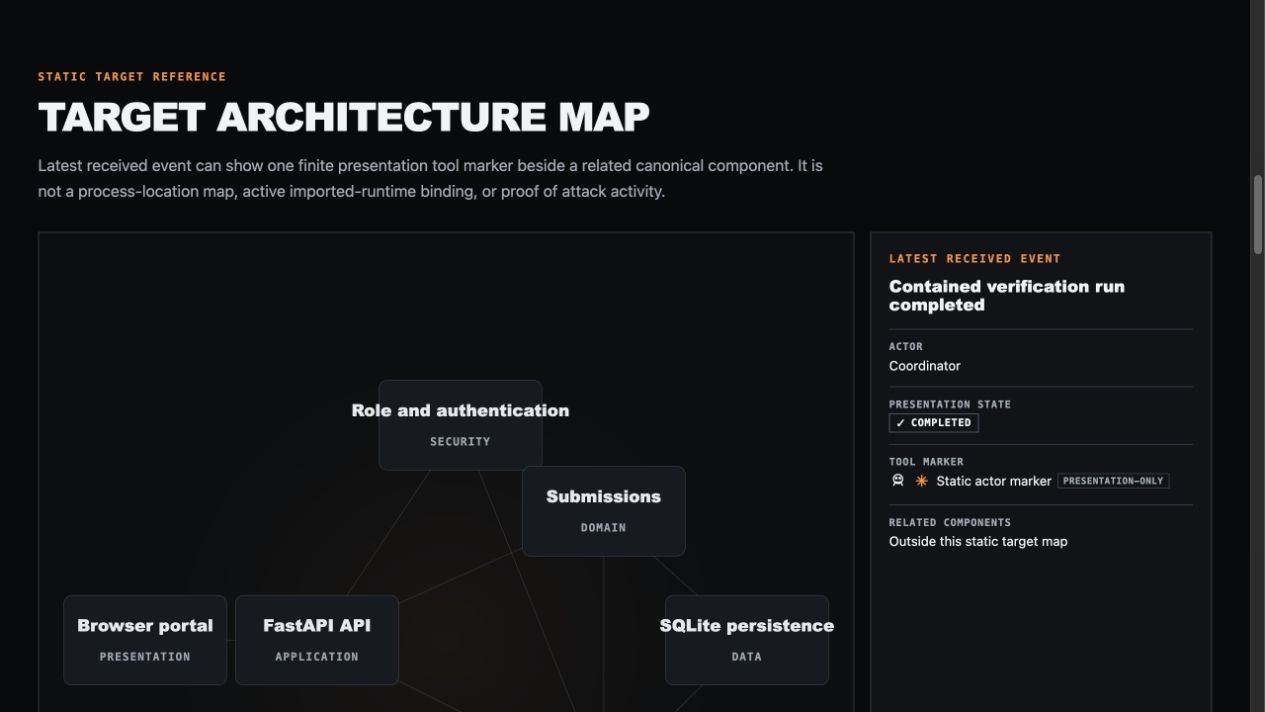
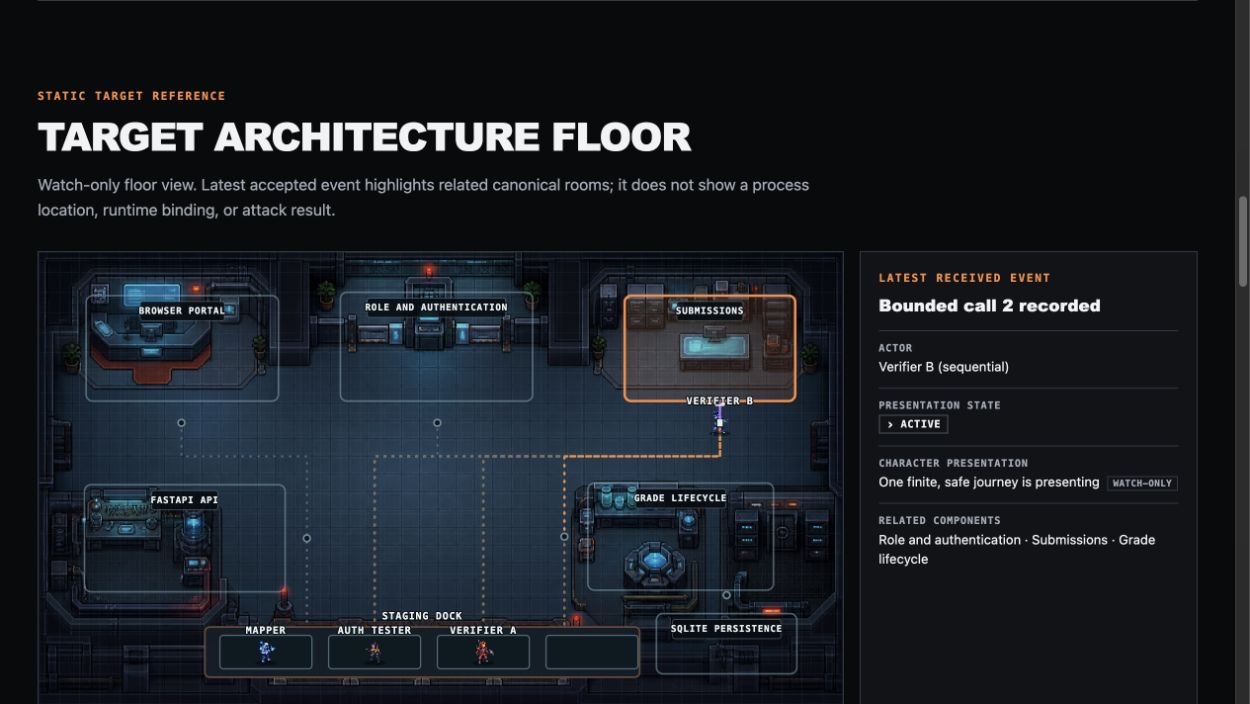
chore(frontend): finish portfolio acceptance

diff --git a/frontend/src/App.tsx b/frontend/src/App.tsx
@@ -364,7 +364,6 @@ export default function App({ preview, initialEvents, transport = liveTransport 
     ? derived.report.metadata.report_url
     : null
   const verifierRunId = derived.terminal?.metadata.verifier_run_id
-  const latestAnnouncement = consoleState.events.at(-1)?.headline ?? 'Console ready'
   const preflight = latest(consoleState.events, 'preflight.completed')
   const runActive = previewReplaying || derived.active || mapActive
 
@@ -484,7 +483,6 @@ export default function App({ preview, initialEvents, transport = liveTransport 
           </section>
         )}
       </main>
-      <p className="sr-only" aria-live="polite" aria-atomic="true">{latestAnnouncement}</p>
       <footer><span>Presentation events are replayable.</span><strong>The append-only SQLite ledger remains the evidence authority.</strong></footer>
     </div>
   )

diff --git a/frontend/src/App.test.tsx b/frontend/src/App.test.tsx
@@ -261,7 +261,7 @@ describe('live operations console', () => {
     expect(within(modes).getByRole('button', { name: 'Simple' })).toHaveAttribute('aria-pressed', 'true')
     await user.tab()
     expect(document.activeElement).toHaveAttribute('href', '#main-content')
-    expect(document.querySelector('[aria-live="polite"]')).toBeInTheDocument()
+    expect(document.querySelectorAll('[aria-live="polite"]')).toHaveLength(1)
     expect(screen.getByRole('button', { name: /Inspect event 0/ })).toBeInTheDocument()
   })
 

diff --git a/AGENTS.md b/AGENTS.md
@@ -129,11 +129,13 @@ Added a separate host-local runtime-console mode for exactly the active Sprint 1
 
 ### Sprint 22
 
-Refreshed the public portfolio presentation without changing product or security behavior. The README now shows current provider-free operations-console replay, seven-stage evidence-flow, event-related architecture-map, and locally served synthetic school-portal captures; it labels replay fixtures, historical pre-migration evidence, presentation-only markers, and the no-provider/no-ledger screenshot boundary explicitly. Browser acceptance used only the committed replay fixture and a temporary seeded school-portal database on loopback; both local services were stopped and the temporary database removed afterwards. The four portfolio images are fixed 1265×712 local JPEGs with no external assets. Offline verification passes 263 Python tests with one existing dependency warning, 39 frontend tests, TypeScript checking, production build, Compose configuration, diff validation, tracked-artifact review, and a redacted credential-pattern audit; the authoritative ledger hash and row counts remain unchanged. No Docker, provider-backed workflow, managed-runtime action, target/registry mutation, or ledger write occurred.
+Refreshed the public portfolio presentation without changing product or security behavior. The README now shows current provider-free operations-console replay, seven-stage evidence-flow, event-related architecture-map, and locally served synthetic school-portal captures; it labels replay fixtures, historical pre-migration evidence, presentation-only markers, and the no-provider/no-ledger screenshot boundary explicitly. Browser acceptance used only the committed replay fixture and a temporary seeded school-portal database on loopback; both local services were stopped and the temporary database removed afterwards. The five portfolio images are local 16:9 JPEGs with no external assets. Offline verification passes 263 Python tests with one existing dependency warning, 39 frontend tests, TypeScript checking, production build, Compose configuration, diff validation, tracked-artifact review, and a redacted credential-pattern audit; the authoritative ledger hash and row counts remain unchanged. No Docker, provider-backed workflow, managed-runtime action, target/registry mutation, or ledger write occurred.
 
 ### Sprint 22 replay addendum
 
 Fixed the provider-free replay control so it no longer resets and redispatches all 32 committed events inside one browser paint. The preview retains its completed initial showcase, but selecting **Replay recorded preview** now clears that state and emits one recorded event every 500 ms, visibly progressing through the seven stages and sequential presentation markers before restoring the replay control. A generation token and timer cleanup prevent overlapping or post-unmount replay; live SSE behavior, event schemas, coordinator, agents, target, runtime, scope controller, providers, Docker, and ledger remain unchanged. Browser acceptance confirmed one event immediately, four while progressing, all 32 at completion, a restored replay control, and no console warnings or errors. Offline verification passes 263 Python tests with one existing dependency warning, 40 frontend tests, TypeScript checking, production build, Compose configuration, and diff validation; the authoritative ledger remains unchanged. No provider-backed workflow or ledger write occurred.
+
+This historical 500 ms cadence was superseded by Sprint 25's fixed 48-second, 32-event replay schedule.
 
 ### Sprint 23
 
@@ -146,6 +148,10 @@ Added four original local transparent `256 × 32` movement sheets, each with eig
 ### Sprint 25
 
 Added compact code-native scan, probe, pickaxe, and beam effects to the fixed Sprint 24 interaction cues, with each effect clipped to a `64 × 56` viewport and remounted for exactly two or three finite 720 ms cycles. Reduced-motion mode preserves the fixed tool icon and accessible cycle text without transforms. Seven original deterministic local mono PCM WAV cues provide low-volume single-channel footsteps, tool, consensus, and failure feedback only after the recorded replay control is used; a visible page-local sound control defaults on, fixed cue IDs cannot accept event URLs, and restart, mute, terminal completion, failure, and unmount stop or replace active playback. Terminal events immediately cancel remaining choreography and restore all four agents to staging; a failed replay suppresses later movement/tool cues and permits only its short final safe-stop tone. The 32 accepted success events retain their exact order and terminal timestamp at 48,000 ms. Live choreography retains 50 map units per second; because the complete authored 960 × 540 routes cannot fit the locked recorded duration at that speed, recorded preview uses one fixed 210-unit presentation speed and joins only adjacent same-role calls through fixed submissions-to-grade corridors. Browser acceptance confirms scan, probe, pickaxe, beam, sound-on/off, exact terminal restoration, bounded rendering, no page overflow, and a clean fresh console; the failure fixture returns to staging at its 4,800 ms terminal event. Offline verification passes 263 Python tests with one existing dependency warning, 90 frontend tests, TypeScript checking, production build, Compose configuration, and diff validation; the authoritative ledger remains unchanged. No backend, coordinator, event schema, provider, Docker, runtime, target, registry, scope-controller, agent, finding, verdict, or ledger behavior changed, and no provider-backed or live Crack workflow ran.
+
+### Sprint 26
+
+Completed responsive and portfolio acceptance for the locked operations-floor upgrade. Removed the duplicate app-level polite live region so the map retains one atomic role, room, action, and state announcement. Browser checks covered 1440×1000 desktop, 1024×900 tablet, and 390×844 plus 320×844 mobile layouts; narrow screens retain intentional internal map panning with no body-level horizontal overflow. Keyboard focus follows skip link, display modes, replay, and sound controls with visible focus; the map remains watch-only. The muted failure replay stops safely at 4,800 ms with every agent staged and no remaining tool effect, while the 32-event success replay reaches its fixed 48,000 ms terminal state with every agent staged. Reduced-motion, forced-colors, sound gating, finite effects, replay cleanup, and one-live-region behavior remain covered by focused frontend tests; a fresh local preview produced no browser warnings or errors. Refreshed the README's provider-free active console and architecture-floor captures and corrected stale portfolio-image and replay-cadence text. Offline verification passes 263 Python tests with one existing dependency warning, 90 frontend tests, TypeScript checking, production build, Compose configuration, diff validation, tracked-artifact review, and a redacted secret-pattern audit; the authoritative ledger hash and row counts remain unchanged. No provider-backed or live Crack workflow, Docker runtime action, target or registry mutation, scope expansion, credential access, or ledger write occurred.
 
 ## Known follow-ups
 

diff --git a/README.md b/README.md
@@ -8,9 +8,9 @@ The answer is a local-only pipeline where models propose bounded plans, ordinary
 
 > **Safety boundary:** Crack is not a general scanner. It is built only for the included synthetic school portal, fixed loopback routes, synthetic Teacher/Student identities, and disposable data. Never point it at third-party or production systems.
 
-![Crack live operations console replaying a completed contained verification run](docs/assets/crack-operations-console.jpg)
+![Crack live operations console during a provider-free recorded replay](docs/assets/crack-operations-console.jpg)
 
-_Provider-free replay of committed, accepted synthetic fixture events. Screenshot capture made no provider calls and did not modify the ledger._
+_Provider-free replay of committed, accepted synthetic fixture events while the console is active. Screenshot capture made no provider calls and did not modify the ledger._
 
 ## What this project demonstrates
 
@@ -51,7 +51,9 @@ flowchart LR
 
 Logical roles run as sequential Python operations, not autonomous parallel services. All application access passes through the fixed scope controller.
 
-![Original top-down operations-floor environment for the synthetic school portal](frontend/public/map/crack-operations-floor.png)
+![Watch-only architecture floor with Verifier B presenting a bounded submission check](docs/assets/crack-architecture-map.jpg)
+
+_Active replay frame from the committed synthetic fixture. The highlighted route and compact tool effect are presentation-only; they do not claim physical execution, damage, or a verdict._
 
 The console overlays fixed canonical room labels, narrow orthogonal routes, four staging slots, and safe latest-event highlights on this local original environment. During an operator-started replay, four labeled 32 px sprite characters take finite, sequential, cardinal-only journeys, use compact event-tied tools, and return to their own staging slots. The floor never claims a physical agent location, parallel execution, damage, or a security verdict; only code-owned consensus can establish the recorded result.
 
